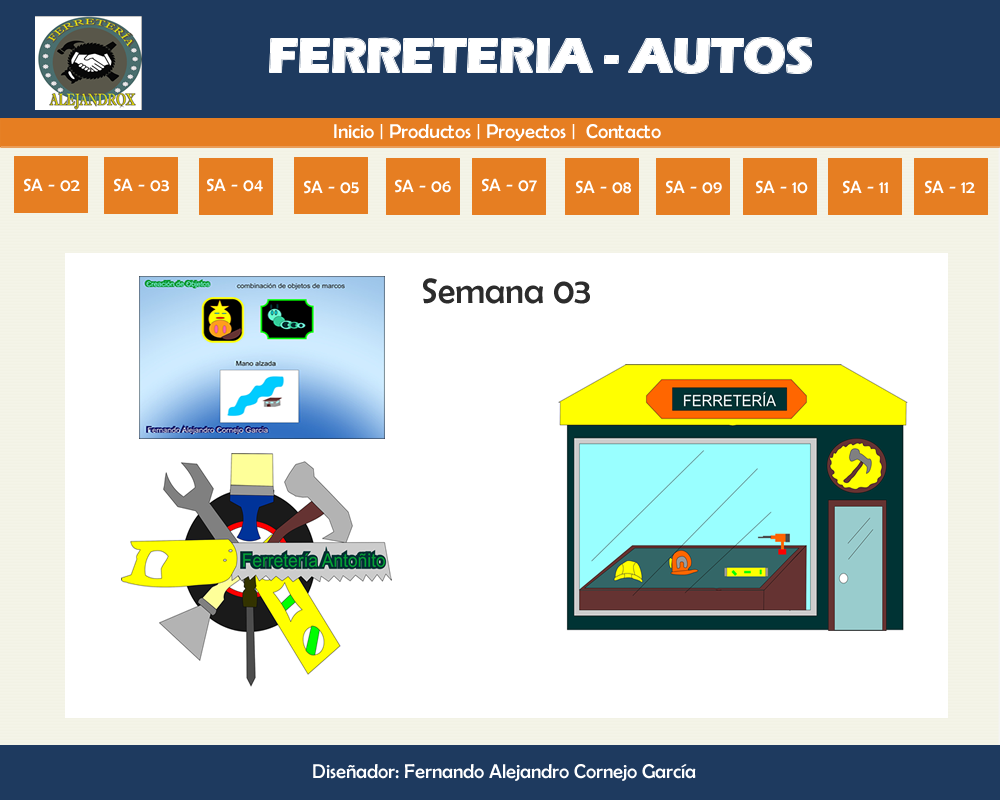
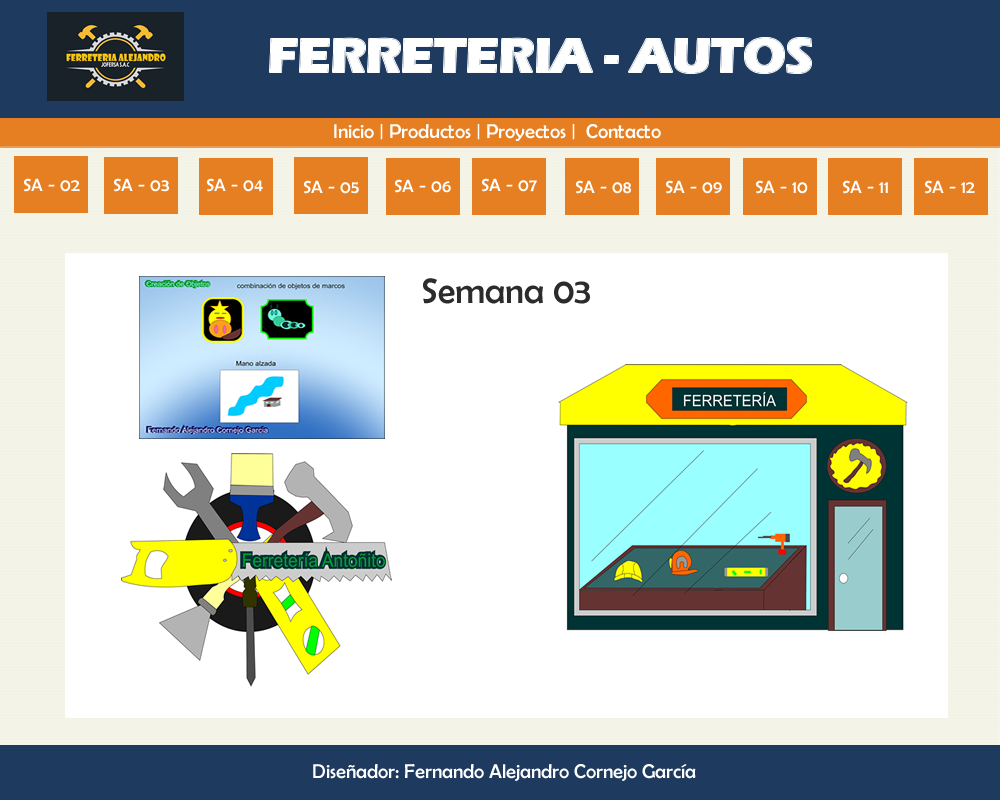
Add files via upload

Changed region(s): [[0.031, 0.0, 0.186, 0.1562]]

diff --git a/index.html b/index.html
@@ -5,12 +5,12 @@
 <head>
 <title>index</title>
 <meta http-equiv="Content-Type" content="text/html; charset=utf-8" />
-<!--Fireworks CS6 Dreamweaver CS6 target.  Created Wed Jul 02 11:54:29 GMT-0500 2025-->
+<!--Fireworks CS6 Dreamweaver CS6 target.  Created Tue Jul 08 08:37:14 GMT-0500 2025-->
 </head>
 <center>
 <body bgcolor="#ffffff">
 <img name="index" src="index.png" width="1000" height="800" id="index" usemap="#m_index" alt="" /><map name="m_index" id="m_index">
-<area shape="rect" coords="35,16,142,110" href="index.html" alt="" />
+<area shape="rect" coords="37,17,172,109" href="index.html" alt="" />
 <area shape="rect" coords="915,158,987,214" href="s12.html" alt="" />
 <area shape="rect" coords="829,157,901,214" href="s11.html" alt="" />
 <area shape="rect" coords="744,159,816,214" href="s10.html" alt="" />

diff --git a/s03.html b/s03.html
@@ -5,12 +5,12 @@
 <head>
 <title>s03</title>
 <meta http-equiv="Content-Type" content="text/html; charset=utf-8" />
-<!--Fireworks CS6 Dreamweaver CS6 target.  Created Wed Jul 02 11:23:57 GMT-0500 2025-->
+<!--Fireworks CS6 Dreamweaver CS6 target.  Created Tue Jul 08 08:41:37 GMT-0500 2025-->
 </head>
 <center>
 <body bgcolor="#ffffff">
 <img name="s03" src="s03.png" width="1000" height="800" id="s03" usemap="#m_s03" alt="" /><map name="m_s03" id="m_s03">
-<area shape="rect" coords="35,16,142,110" href="index.html" alt="" />
+<area shape="rect" coords="47,12,184,101" href="index.html" alt="" />
 <area shape="rect" coords="915,158,987,214" href="s12.html" alt="" />
 <area shape="rect" coords="829,157,901,214" href="s11.html" alt="" />
 <area shape="rect" coords="744,159,816,214" href="s10.html" alt="" />

diff --git a/s04.html b/s04.html
@@ -5,12 +5,12 @@
 <head>
 <title>s04</title>
 <meta http-equiv="Content-Type" content="text/html; charset=utf-8" />
-<!--Fireworks CS6 Dreamweaver CS6 target.  Created Wed Jul 02 11:24:07 GMT-0500 2025-->
+<!--Fireworks CS6 Dreamweaver CS6 target.  Created Tue Jul 08 08:42:24 GMT-0500 2025-->
 </head>
 <center>
 <body bgcolor="#ffffff">
 <img name="s04" src="s04.png" width="1000" height="800" id="s04" usemap="#m_s04" alt="" /><map name="m_s04" id="m_s04">
-<area shape="rect" coords="35,16,142,110" href="index.html" alt="" />
+<area shape="rect" coords="40,16,197,105" href="index.html" alt="" />
 <area shape="rect" coords="915,158,987,214" href="s12.html" alt="" />
 <area shape="rect" coords="829,157,901,214" href="s11.html" alt="" />
 <area shape="rect" coords="744,159,816,214" href="s10.html" alt="" />

diff --git a/s05.html b/s05.html
@@ -5,12 +5,12 @@
 <head>
 <title>s05</title>
 <meta http-equiv="Content-Type" content="text/html; charset=utf-8" />
-<!--Fireworks CS6 Dreamweaver CS6 target.  Created Wed Jul 02 11:24:36 GMT-0500 2025-->
+<!--Fireworks CS6 Dreamweaver CS6 target.  Created Tue Jul 08 08:46:02 GMT-0500 2025-->
 </head>
 <center>
 <body bgcolor="#ffffff">
 <img name="s05" src="s05.png" width="1000" height="800" id="s05" usemap="#m_s05" alt="" /><map name="m_s05" id="m_s05">
-<area shape="rect" coords="35,16,142,110" href="index.html" alt="" />
+<area shape="rect" coords="39,13,179,107" href="index.html" alt="" />
 <area shape="rect" coords="915,158,987,214" href="s12.html" alt="" />
 <area shape="rect" coords="829,157,901,214" href="s11.html" alt="" />
 <area shape="rect" coords="744,159,816,214" href="s10.html" alt="" />

diff --git a/s07.html b/s07.html
@@ -5,12 +5,12 @@
 <head>
 <title>s07</title>
 <meta http-equiv="Content-Type" content="text/html; charset=utf-8" />
-<!--Fireworks CS6 Dreamweaver CS6 target.  Created Wed Jul 02 11:24:56 GMT-0500 2025-->
+<!--Fireworks CS6 Dreamweaver CS6 target.  Created Tue Jul 08 08:47:06 GMT-0500 2025-->
 </head>
 <center>
 <body bgcolor="#ffffff">
 <img name="s07" src="s07.png" width="1000" height="800" id="s07" usemap="#m_s07" alt="" /><map name="m_s07" id="m_s07">
-<area shape="rect" coords="35,16,142,110" href="index.html" alt="" />
+<area shape="rect" coords="38,13,187,104" href="index.html" alt="" />
 <area shape="rect" coords="915,158,987,214" href="s12.html" alt="" />
 <area shape="rect" coords="829,157,901,214" href="s11.html" alt="" />
 <area shape="rect" coords="744,159,816,214" href="s10.html" alt="" />

diff --git a/s02.html b/s02.html
@@ -5,12 +5,12 @@
 <head>
 <title>s02</title>
 <meta http-equiv="Content-Type" content="text/html; charset=utf-8" />
-<!--Fireworks CS6 Dreamweaver CS6 target.  Created Wed Jul 02 11:23:51 GMT-0500 2025-->
+<!--Fireworks CS6 Dreamweaver CS6 target.  Created Tue Jul 08 08:40:48 GMT-0500 2025-->
 </head>
 <center>
 <body bgcolor="#ffffff">
 <img name="s02" src="s02.png" width="1000" height="800" id="s02" usemap="#m_s02" alt="" /><map name="m_s02" id="m_s02">
-<area shape="rect" coords="35,16,142,110" href="index.html" alt="" />
+<area shape="rect" coords="48,14,196,90" href="index.html" alt="" />
 <area shape="rect" coords="915,158,987,214" href="s12.html" alt="" />
 <area shape="rect" coords="829,157,901,214" href="s11.html" alt="" />
 <area shape="rect" coords="744,159,816,214" href="s10.html" alt="" />

diff --git a/s06.html b/s06.html
@@ -5,12 +5,12 @@
 <head>
 <title>s06</title>
 <meta http-equiv="Content-Type" content="text/html; charset=utf-8" />
-<!--Fireworks CS6 Dreamweaver CS6 target.  Created Wed Jul 02 11:24:46 GMT-0500 2025-->
+<!--Fireworks CS6 Dreamweaver CS6 target.  Created Tue Jul 08 08:46:10 GMT-0500 2025-->
 </head>
 <center>
 <body bgcolor="#ffffff">
 <img name="s06" src="s06.png" width="1000" height="800" id="s06" usemap="#m_s06" alt="" /><map name="m_s06" id="m_s06">
-<area shape="rect" coords="35,16,142,110" href="index.html" alt="" />
+<area shape="rect" coords="41,16,177,99" href="index.html" alt="" />
 <area shape="rect" coords="915,158,987,214" href="s12.html" alt="" />
 <area shape="rect" coords="829,157,901,214" href="s11.html" alt="" />
 <area shape="rect" coords="744,159,816,214" href="s10.html" alt="" />

diff --git a/s12.html b/s12.html
@@ -5,7 +5,7 @@
 <head>
 <title>s12</title>
 <meta http-equiv="Content-Type" content="text/html; charset=utf-8" />
-<!--Fireworks CS6 Dreamweaver CS6 target.  Created Wed Jul 02 11:25:31 GMT-0500 2025-->
+<!--Fireworks CS6 Dreamweaver CS6 target.  Created Tue Jul 08 08:48:24 GMT-0500 2025-->
 </head>
 <center>
 <body bgcolor="#ffffff">
